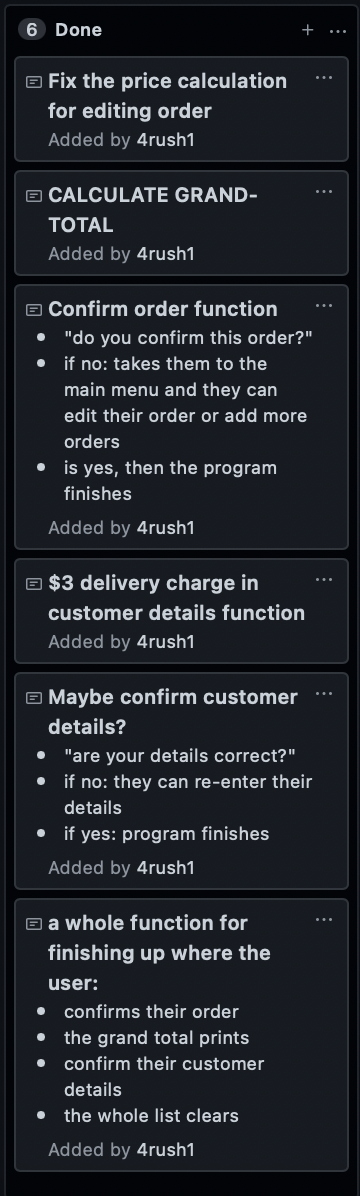
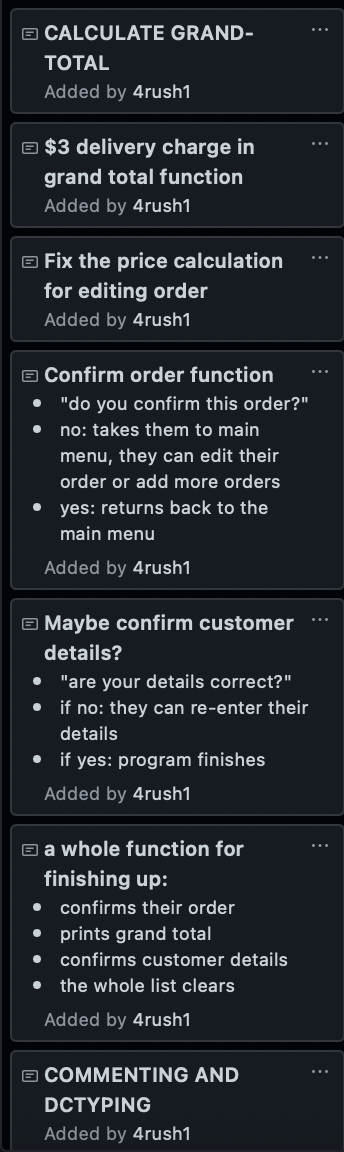
fixing my finish order function and crucial tidying up

diff --git a/PlanningSite/Planning_site_pasta/template_class.html b/PlanningSite/Planning_site_pasta/template_class.html
@@ -162,7 +162,10 @@
 <hr>
 <br>
 <h2>Code plan on paper</h2>
-<img class="img-responsive" src="assets/img/SPRINT3/" alt="">
+<img class="img-responsive" src="assets/img/SPRINT3/PAPERPLAN2.jpg" alt="">
+<img class="img-responsive" src="assets/img/SPRINT3/PAPERPLAN1.jpg" alt="">
+<img class="img-responsive" src="assets/img/SPRINT3/PAPERPLAN3.jpg" alt="">
+<img class="img-responsive" src="assets/img/SPRINT3/PAPERPLAN4.jpg" alt="">
 <hr>
 <br>
 <h2>Tests</h2>
@@ -291,17 +294,17 @@
 	 to find a way to correctly update the prices when a user edit's their order. I realised that I was mutiplying the new 
 	 amount (of the dish) by the old total price rather than the original price of the dish, this is something I will try 
 	 fix in sprint 4. I also need to make a function to confirm the user's order, add a $3 DELIVERY CHARGE in the customer 
-	 details function and find out how to calculate the grand total in the review order function. Theses were things I forgot 
-	 to do in sprint 3. In terms of validation I need basic string validation, which is, converting string input into upper 
-	 case. I also need integer limits for lists, phone number integer limits, address character requiremnets / limits as well 
-	 as a limit on the amount of a dish that you can order. Most importantly I need to add validation which doesnt let the user 
-	 quit the program until they have entered they're customer details. Another thing I need to figure out and improve on is 
-	 the format of my program, I am planning to print the order in the customer details function. I might also make a "confirm
-	customer details" fucntion. I also need to decide when to ask the user to confirm their order, I dont know whether I 
-	should confirm their order once they press "quit" or if I should put it in another place e.g main menu?. I will confirm 
-	the customer details in the customer details function. The system will ask, "are your detail correcct?", if they're 
-	information is wrong they can re-edit it and cofirm again. Fianlly, I need to add more commenting and add doctyping.
-	These are things I will add in future sprints.  
+	 details function and find out how to calculate the grand total in the review order function. In terms of validation I 
+	 need basic string validation, which is, converting string input into upper case. I also need integer limits for lists, 
+	 phone number integer limits, address character requiremnets / limits as well as a limit on the amount of a dish that you 
+	 can order. Most importantly I need to add validation which doesnt let the user quit the program until they have entered 
+	 they're customer details. Another thing I need to figure out and improve on is the format of my program, I am planning 
+	 to print the order in the customer details function. I might also make a "confirm customer details" fucntion. I also 
+	 need to decide when to ask the user to confirm their order, I dont know whether I should confirm their order once they 
+	 press "quit" or if I should put it in another place e.g main menu?. I will confirm the customer details in the customer
+	  details function. The system will ask, "are your detail correcct?", if they're information is wrong they can re-edit 
+	  it and confirm again. Fianlly, I need to add more commenting and add doctyping. These are things I will add in future 
+	  sprints.  
 </p>
 <hr>
 <br>
@@ -313,26 +316,171 @@
 </p>
 <hr>
 <h2>Github</h2>
-<img class="img-responsive" src="assets/img/SPRINT4/" alt="">
+<img class="img-responsive" src="assets/img/SPRINT4/BACKLOG.png" alt="">
 <hr>
 <br>
-
 <h2>Code plan on paper</h2>
-<img class="img-responsive" src="assets/img/SPRINT4/" alt="">
-<img class="img-responsive" src="assets/img/SPRINT4/" alt="">
+<p>This was unsuccesful pseudo code for calculating the delivery charge, however the grand total calculation</p>
+<img class="img-responsive" src="assets/img/SPRINT4/PAPERPLAN1.jpg" alt="">
+<p>This was succesful pseudo code for calculating the delivery charge and grand total</p>
+<img class="img-responsive" src="assets/img/SPRINT4/PAPERPLAN2.jpg" alt="">
 <hr>
 <br>
 <h2>Tests</h2>
+<p> One of the first issues with my code was that if the user edited their order, the price would always increase. I realised
+	this was because I was multiplying the edited amount by the total price rather than the singular price. Below is the 
+	incorrect code for calculating the price when editing the order, and the test. 
+</p>
+<img class="img-responsive" src="assets/img/SPRINT4/EditOrderWrongCode.png" alt="">
+<br>
+<img class="img-responsive" src="assets/img/SPRINT4/EditOrderPriceIssue.png" alt="">
+<br>
+<p>I fixed this by dividing the total price by the old amount, this calculated the singulr price. I then multiplied the 
+	new amount by the singular price.</p>
+<img class="img-responsive" src="assets/img/SPRINT4/EditOrderCorrectCode2.png" alt="">
+<br>
+<img class="img-responsive" src="assets/img/SPRINT4/EditOrderCorrectCode.png" alt="">
+<br>
+<img class="img-responsive" src="assets/img/SPRINT4/GrandTotalChangingWithEdit.png" alt="">
+<br>
+<p> At first I didn’t know how to calculate the grand total, I started off by making a price list and doing the sum of the 
+	list. The first issue I realsied was my grand-total calculation were completely wrong. It turns out, this was because 
+	there was an issue with the loop, causing certain prices to be added multiple times.</p>
+ <img class="img-responsive" src="assets/img/SPRINT4/WrongPriceInList.png" alt="">
+ <br>
+ <p>This happened because each time the user reviewed their order, it re-calculated the grand total and appended it to the
+	 price list. I fixed this by clearing the list each time the user wanted to review their order. This way, the price was 
+	 re-calculated each time. This is a successful test after I was finally able to fix the grand total. The formatting of 
+	 how the grand-total prints isnt good, I will fix this in my final sprint. I had to make a "grand_total_calc" function 
+	 was separate from the review order fucntion as I also have to calculate / use this function in other areas of my code.  
+ </p>
+ <img class="img-responsive" src="assets/img/SPRINT4/CORRECTeditGrandTotalCode.png" alt="">
+ <br>
+ <img class="img-responsive" src="assets/img/SPRINT4/CorrectGrandTotal.png" alt="">
+ <br>
+ <p>the next issue I had was I didnt know how to incorperate the delivery charge into the function. At first, I tried to 
+	 add a delivery charge to the price list in the customer details function. I realised this didnt work because everytime
+	 the user reviews their order, the list is cleared, therefore the delivery charge is also cleared. Below are 
+	 unsucessful tests where the system crahses or doesnt add on the delivery charge correclty.</p>
+
+	 <img class="img-responsive" src="assets/img/SPRINT4/ReviewDeliveryChargeFail.png" alt="">
+	 <br>
+ <img class="img-responsive" src="assets/img/SPRINT4/DeliveryChargeWrong.png" alt="">
+ <br>
+ <p> I fixed this including the user's choice (Pick-up to Delivery) in the order list and then I used an "if" statement in 
+	 the review order so that, if "D" / delivery is in the order list, then $3 is appened to the price list. However, then I 
+	realised that this code doesnt take into account that the "pickup list" is shorter than the "delivery list" because in 
+the delivery list there is the name, phone number, address, "D"; whereas in the pickup list there is the name, phone number, 
+"P". This meant that c_list[x][3] is out of range for the pickup list </p>
+ <img class="img-responsive" src="assets/img/SPRINT4/DeliveryChargeWrongCode.png" alt="">
+ <br>
+ <img class="img-responsive" src="assets/img/SPRINT4/DeliveryChargeCrash.png" alt="">
+ <br>
+ <img class="img-responsive" src="assets/img/SPRINT4/DeliveryChargeCrash2.png" alt="">
+ <br>
+ <img class="img-responsive" src="assets/img/SPRINT4/DeliveryChargeCrash3.png" alt="">
+ <br>
+ <p> This is a successful test after I tried to fix the code </p>
+ <img class="img-responsive" src="assets/img/SPRINT4/SuccessfulDeliveryCharecode.png" alt="">
+ <br>
+ <img class="img-responsive" src="assets/img/SPRINT4/DeliveryChargeSuccess.png" alt="">
+ <br>
+ <p> CONFIRM ORDER
+ </p>
+ <p> I made a confirm order function so that the user could confirm the dishes the order. I initially had a crash because 
+	 I had the wrong arguments in my function, this was an easy fix. </p>
+ <img class="img-responsive" src="assets/img/SPRINT4/ConfimOrderCrash.png" alt="">
+ <br>
+<p> Successful Code: this is the code for the user to confirm their order and below is the code for the user to 
+	their customer details. For the confrim order function I ask the user if they confirm their order, if they say
+	"Yes" it appends "Y" to the confirm order list and the confirm function terminates, if they say "No" it appends
+	"N" to the confirm order list and asks them if they want to edit their order. If the user says no, the function 
+	terminates. But, if they say yes, it call the edit_order function and they can edit their order. The same process 
+	applies to the confirm customer function, however, instead of asking the user if they want to edit their details
+	it just calls the "customer details function". This is because if there is already something in the list, 
+	that function asks if you want to edit your customer details. One thing which I have to keep an eye on is that 
+	I have called a function inside my function, which could be dangerous at times. Luckily my code is functional </p>
+<img class="img-responsive" src="assets/img/SPRINT4/ConfirmOrderCode.png" alt="">
+ <br>
+ <img class="img-responsive" src="assets/img/SPRINT4/ConfirmCustomerCode.png" alt="">
+ <br>
+
+ <p>I then made a "finish ordering" function which prevents the user from leaving if they havent entered their details. As
+	well as this, it calls the confirm order function and confirm customer function. At first I thought this function would
+	work, however I encountered many problems, some of which I dont even know how to fix yet, I will try fix most of these 
+	issues in my final sprint (sprint 5).
+</p>
+<br>
+<p>The first issue I realised with my code was that the user could go to the "finishing order" function without ordering 
+	anything or entering their customer details, I hadnt accounted for this in my initial validation. I also didnt account 
+	for the fact that the user could've not ordered anything, and it's likely that the program could crash from this.
+</p>
+<img class="img-responsive" src="assets/img/SPRINT4/FinishingOrderWrongCode.png" alt="">
+<br>
+<p>I fixed this by adding this validation:
+</p>
+<img class="img-responsive" src="assets/img/SPRINT4/FinishingOrderValidation.png" alt="">
+<br>
+<img class="img-responsive" src="assets/img/SPRINT4/FinishingUpValidation.png" alt="">
+<br>
+<img class="img-responsive" src="assets/img/SPRINT4/FinishValidation2.png" alt="">
+<br>
+<img class="img-responsive" src="assets/img/SPRINT4/FinishingOrderSuccessTest1.png" alt="">
+<br>
+
+<p>The second issue was that I printed the grand total out of the loop of my grand total calculation function,
+	this was so that the grand total doesnt't print multiple times, as the "for i in range" loop causes it to
+	print multiple times. But putting it out of the loop has causes severe problems.
+</p>
+<img class="img-responsive" src="assets/img/SPRINT4/GrandTotalOutOfLoop.png" alt="">
+ <br>
+ <img class="img-responsive" src="assets/img/SPRINT4/FinishingOrderError.png" alt="">
+ <br>
+
+ <p>One of the biggest crashes I had was the when the finishing order function was malfunctioninf for some unknown reason. 
+	 Here you can see that when the user confirms their customer or order details, the program starts doing weird things, 
+	 especially when the user enters "No" to the questions, this is an issue I will fix in my final sprint. 
+ </p>
+ <img class="img-responsive" src="assets/img/SPRINT4/FinishOrderCrash.png" alt="">
+ <br>
+ <p>It was tricky to understand why my final issue occured</p>
+ <img class="img-responsive" src="assets/img/SPRINT4/OutOfRangeCrash.png" alt="">
+ <br>
+ <p>I added validation to try and prevent the system from crashing again</p>
+ <img class="img-responsive" src="assets/img/SPRINT4/FixingConfirmList.png" alt="">
+ <br>
+ <h2>Reflection</h2>
+ <p>
+As you can see from the large number of test, there were many functionality issues in functions (other than validation).
+I realised the price in "editing order" wrong because I was multiplying the edited amount by the total price rather than 
+the singular price. I also realised that when the user edits the order, the old price doesn’t remove from the price list.
+I managed to fix this by clearing the price list each time the function is called, then i do the usual appending etc. I 
+fixed this by dividing the total by the old amount, and multiplying by the new amount. Another issue is that I didn’t 
+know how to store the prices and then calculate the grand total. I also realised that clearing the price_list, meant the 
+delivery charge was also cleared. I fixed this by using an if statement to add a three dollar delivery charge in grand 
+total function, after the list had been cleared. I also realised that if D is not in the list and P is instead, it crashes 
+because the list is different lengths if they choose to pickup or delivery. I fixed this by writing : if “D” in c_list[i]
+rather than a more specific statement : if "D" in c_list[i][3]. After this I added a confirm order and confirm customer
+details function, I called these in my new "finishing up" function where it. This function was supposed to: asks them to 
+confirm their order, confirm their details, clears all the list. However, I encountered some issues in this function. 
+In the next sprint I will fix the issues I found in this sprint as well as adding solid validation.
+ </p>
+
+
+ <img class="img-responsive" src="assets/img/SPRINT4/" alt="">
+ <br>
+ <img class="img-responsive" src="assets/img/SPRINT4/" alt="">
+ <br>
+ <img class="img-responsive" src="assets/img/SPRINT4/" alt="">
+ <br>
  <img class="img-responsive" src="assets/img/SPRINT4/" alt="">
  <br>
  <img class="img-responsive" src="assets/img/SPRINT4/" alt="">
  <br>
  <img class="img-responsive" src="assets/img/SPRINT4/" alt="">
  <hr>
- <h2>Reflection</h2>
- <p>
+ <br>
 
- </p>
 
 <h2>Final Reflection</h2>
 <h1> Relevant Implications Summary</h1>

diff --git a/main.py b/main.py
@@ -5,6 +5,7 @@ def get_integer(m):
     :param m: integer input
     :return: integer
     """
+
     my_integer = int(input(m))
     return my_integer
 
@@ -15,7 +16,7 @@ def get_string(m):
     :return: string
     """
     my_string = input(m)
-    return my_string
+    return my_string.upper().strip()
 
 # REVIEW LISTS
 def print_list(l):
@@ -75,7 +76,8 @@ def review_total_order(o_list, p, c_list):
     for i in range(0, len(o_list)):
         output = "You have ordered {} {} for ${:.2f}".format(o_list[i][0], o_list[i][1], o_list[i][2])
         print(output)
-    grand_total_calc(o_list, p, c_list)
+    print( "your grand total: ${}".format( grand_total_calc(o_list, p, c_list) ) )
+
 
 def grand_total_calc(o_list,p, c_list):
     """Here I am trying to calculate the grand total
@@ -94,9 +96,9 @@ def grand_total_calc(o_list,p, c_list):
     for j in range(0, len(o_list)):
         # creating price list
         p.append(o_list[j][2])
-        grand_total = sum(p)
-    print(p)
-    print(grand_total)
+    grand_total = sum(p)
+    return grand_total
+
 
 # CONFIRMATION
 def stay_or_return(m = "Do you want to (C)ontinue on this menu or (R)eturn to the main menu"):
@@ -110,7 +112,7 @@ def stay_or_return(m = "Do you want to (C)ontinue on this menu or (R)eturn to th
     # running the loop
     getting_response = True
     while getting_response is True:
-        response = get_string(m).upper().strip()
+        response = get_string(m)
         if response not in ["C", "R"]:
             print("invalid entry, try again")
             continue
@@ -221,7 +223,7 @@ def edit_order(o_list,p, c_list):
     else:
         print("invalid entry, try again")
 
-#Customer Details
+#CUSTOMER DETAILS
 def customer_details(c_list, o_list):
     """Get name phone from customer, find if delivery oor pickup, if so get address.
 
@@ -277,19 +279,22 @@ def finishing_order(c_list, o_list, p, c_o, c_c):
         customer_details(c_list, o_list)
         print("_" * 50)
 
+    print("calling review")
     review_total_order(o_list, p, c_list)
     print("_" * 50)
+    print("calling confirm order")
     confirm_order(c_o, o_list, p, c_list)
     print("_" * 50)
-    confirm_customer(c_c, o_list, p, c_list)
+    print("calling confirm customer")
+    confirm_customer(c_c, o_list, c_list)
     print("_" * 50)
-
     print("We are finishing you order now")
-    c_list.clear()
-    o_list.clear()
-    p.clear()
-    c_o.clear()
-    c_c.clear()
+
+    #c_list.clear()
+    #o_list.clear()
+    #p.clear()
+    #c_o.clear()
+    #c_c.clear()
 
 def get_order_menu():
     """
@@ -373,8 +378,10 @@ def main():
         ]
 
     order_list = []
+    order_list = [[1, 'Fusilli Pesto', 19]]
 
     customer_list = []
+    customer_list=[['PAUL', 223837638, 'P']]
 
     price_list = []
 
